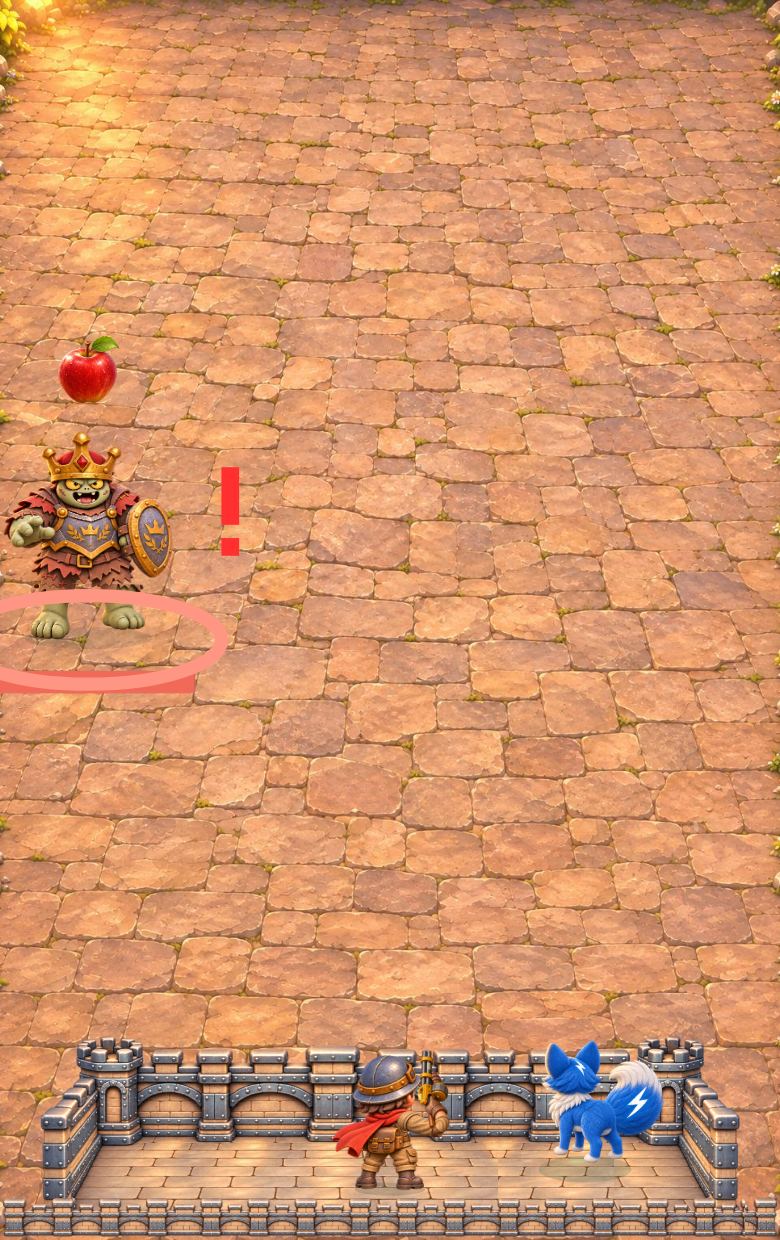
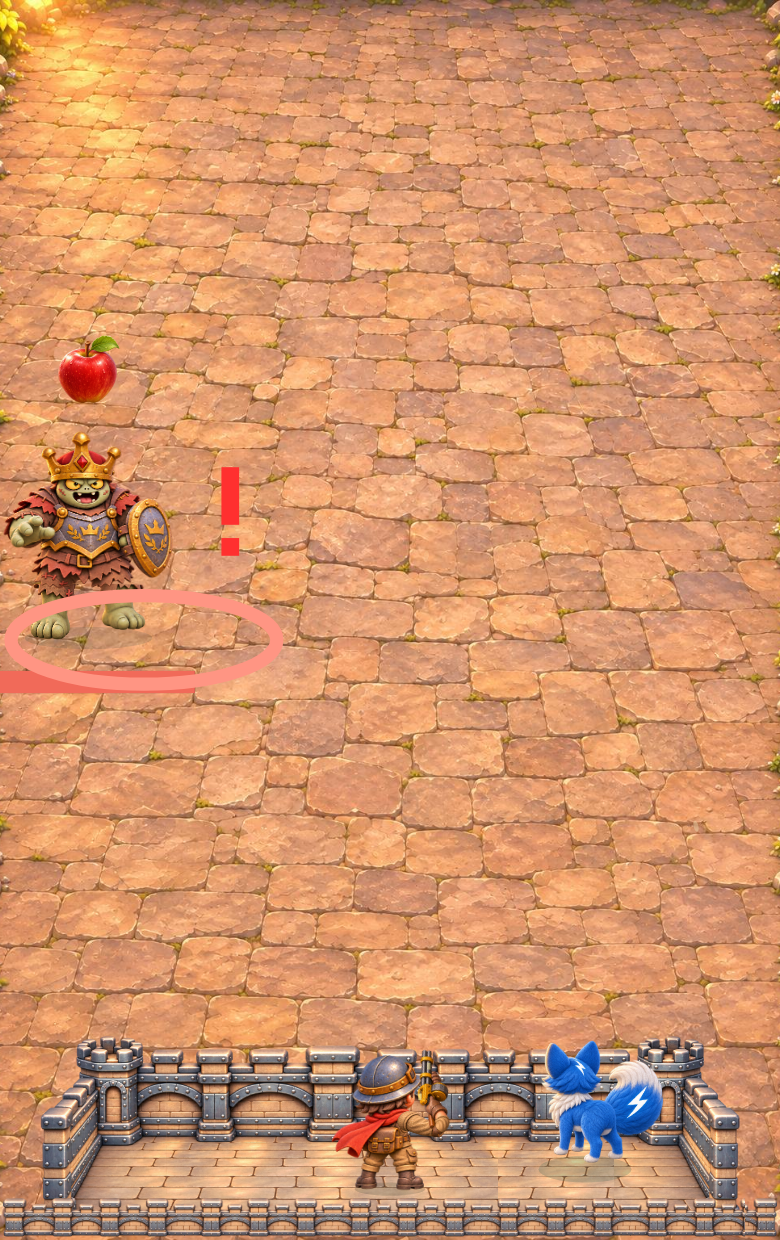
fix: keep grand boss warning ring inside arena

Changed region(s): [[0.1846, 0.4597, 0.3692, 0.5823], [0.0, 0.4597, 0.1231, 0.5823]]

diff --git a/miniprogram/fortress/canvas-scene.ts b/miniprogram/fortress/canvas-scene.ts
@@ -595,7 +595,12 @@ export class CanvasScene {
         c.fillStyle = '#f16a59'; c.fillRect(-24, 29, 48 * monster.hp / monster.maxHp, 5);
         if (warning) {
           c.strokeStyle = state.tick % 20 < 10 ? '#ff302f' : '#ff9583'; c.lineWidth = 3;
-          c.beginPath(); c.ellipse(0, 22, 30, 10, 0, 0, Math.PI * 2); c.stroke();
+          // Grand Boss content is scaled 2×. Keep the 60px world-space ring
+          // inside the arena while retaining its warning footprint near the feet.
+          const ringMargin = (30 + 1.5) * 2 + 2; // radius + half stroke + anti-alias gap
+          const ringWorldX = Math.max(ringMargin, Math.min(this.viewport.worldWidth - ringMargin, monster.position.x));
+          const warningRingX = (ringWorldX - monster.position.x) / 2;
+          c.beginPath(); c.ellipse(warningRingX, 22, 30, 10, 0, 0, Math.PI * 2); c.stroke();
           // Place the new Boss warning beside the silhouette, toward the arena
           // interior, so the face, crown and learning badge remain readable.
           const warningX = bossBody ? (monster.position.x < this.viewport.worldWidth / 2 ? 32 : -32) : 0;

diff --git a/docs/issue-audit-2026-11-02.md b/docs/issue-audit-2026-11-02.md
@@ -123,3 +123,9 @@
 已抽查手机8秒与平板25秒正式帧，主角保持平台内直立并随目标举枪。后坐幅度在实际尺寸较克制；左右镜像光照、首页统一、完整十九波、微信模拟器和真机连续射击仍待完成，#91/#45/#98保持开放。特殊敌人审样仍待用户确认，#81二期和暂停新堡垒摧毁图不变。
 
 同一正式射击倒计时现驱动七级主角共用的枪口火光：暖色外焰与亮芯从真实逻辑枪口出发，50ms内淡出，不创建粒子对象、额外计时器或事件。新增回归覆盖未开火、首发、衰减、结束、暂停重复采样和非法输入；47项主角/Canvas定向回归、541项全量测试及项目检查通过。自然回放重录后，手机/平板帧数、逐秒状态、事件与终局仍和后坐前基线完全一致。目视抽查手机2.60秒及2.5～3.5秒连续帧，火光贴合枪口且未遮挡角色。#95/#91/#45/#98继续开放，设备和用户视觉验收未由离屏证据替代。
+
+## 2026-11-11 王冠 Boss 边缘圆环完整显示（#92/#95/#98）
+
+上一轮已将王冠 Boss 感叹号移到身体内侧，但六张边缘夹具仍显示2倍缩放后的预警圆环被画布裁切。本轮只将圆环中心向场内偏移，安全边距精确包含60px世界半径、3px世界描边半宽和2px抗锯齿留白；Boss位置、身体、词条、感叹号、蓄力/冲击波时序和伤害均不变。
+
+Canvas回归覆盖手机/宽屏的左40、中线、右40逻辑位置，按实际2倍缩放验证圆环连同描边完全位于战场宽度内，同时保留感叹号不遮脸/词条断言；44项Canvas定向回归和项目检查通过。六张DPR2生产绘制器固定夹具及哈希已重建，目视复核手机左右边缘圆环完整，见 `docs/visual-audit/enemies/approved-parts/warning-layout/`。固定夹具不是自然整场、微信模拟器或真机验收，三单保持开放。

diff --git a/docs/visual-audit/enemies/approved-parts/warning-layout/README.md b/docs/visual-audit/enemies/approved-parts/warning-layout/README.md
@@ -6,4 +6,4 @@
 
 项目检查及44项 Canvas 定向回归通过。新增回归检查手机/宽屏三位置，按 Boss 既有2倍缩放换算标记边界，确认不覆盖自身身体并保留词条；不是全场其他角色避让算法。
 
-六图为固定夹具，不是自然战斗或设备截图。历史 `../boss-motion/` 回放保留修复前感叹号位置，不冒充更新后视频。靠边的预警圆环仍可部分裁切，伤害数字和其他角色的密集遮挡仍待处理；未宣称整体视觉通过。
+六图为固定夹具，不是自然战斗或设备截图。历史 `../boss-motion/` 回放保留修复前感叹号位置，不冒充更新后视频。2026-11-11 复验时将2倍缩放后的圆环半径、描边半宽及2px抗锯齿留白一并纳入边界，左右边缘圆环完整保留；六张样图及哈希已重建。伤害数字与其他角色的密集遮挡仍待处理，未宣称整体视觉通过。
